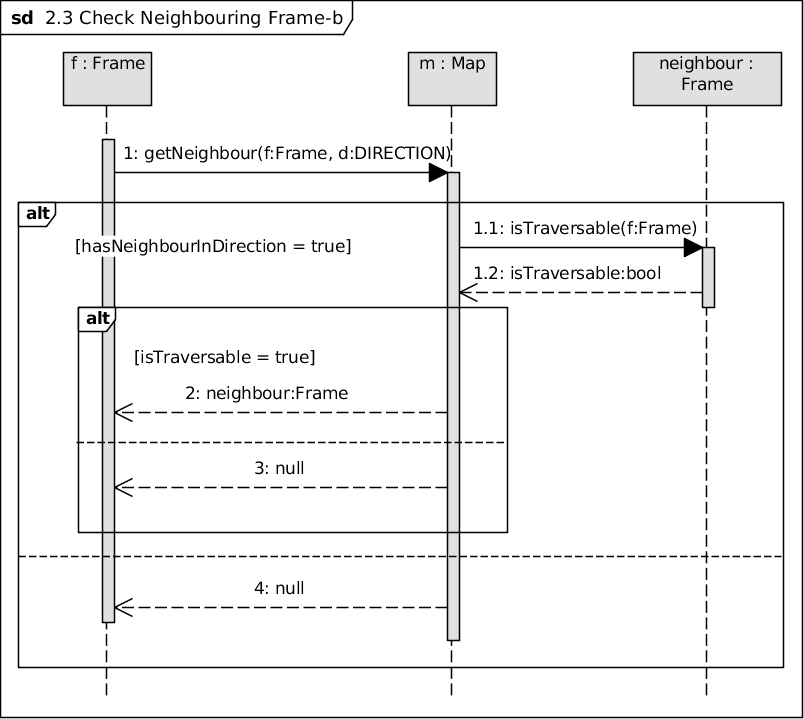
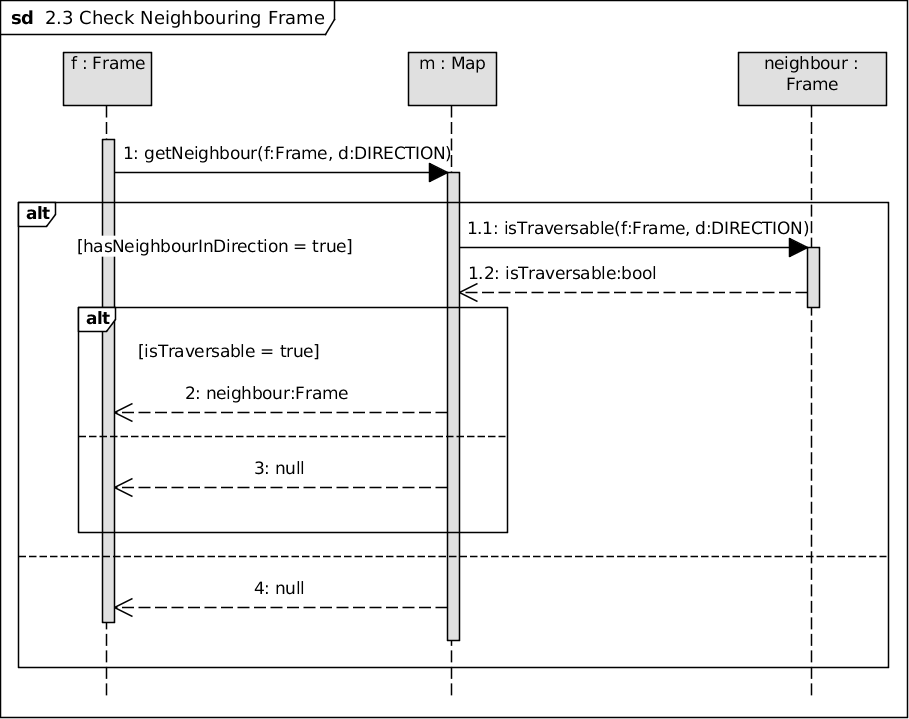
04: fixed diagrams and updated .tex file, diary added

diff --git a/docs/04/04.tex b/docs/04/04.tex
@@ -19,7 +19,7 @@
 			\item[FrameItem] A keretben elhelyezkedő elemek által megvalósított iterfész, melyen keresztül a keret menedzselni tudja a benne lévő elemeket.
 			\item[Game] A játékot reprezentáló objektum, amely kezeli az aktuális pályát.
 			\item[Key] Kulcs elem, melyet megérintve a Stickman meg tud szerezni. Erről egy esemény küldésén keresztül értesíti a külvilágot.
-			\item[Map] Számon tartja a pályán elhelyezett kulcsokat számát, valamint a már összegyűjtött kulcsok számát. Felelős a keretek mozgatásáért.
+			\item[Map] Számon tartja a pályán elhelyezett kulcsokat számát, valamint a már összegyűjtött kulcsok számát. Felelős a keretek mozgatásáért, amit kommunikácó nélkül meg tud valósítani.
 			\item[MapFactory] Felelős a pályák létrehozásáért, bennük a keretek és az elemek elhelyezéséért.
 			\item[Platform] Olyan elem, mellyel nem tud a Stickman egy helyen tartózkodni, azaz korlátozza a Stickman mozgásterét.
 			\item[PubSub] Üzenetközvetítő osztály, mely feliratkozásokat tart számon, és ha valakitől eseményt kap, arról értesíti az arra feliratkozottakat.
@@ -43,10 +43,7 @@
 						\item[\texttt{protected Area area}] A tartalmazó kereten belül elfoglalt pozíció 
 						\item[\texttt{protected Frame frame}] A tartalmazó keret 
 					\end{description}
-				\item[Metódusok]$\ $
-					\begin{description}
-						\item[] (nincs)
-					\end{description}
+				\item[Metódusok] (nincs)
 			\end{description}
 
 		\subsubsection{Area}
@@ -90,14 +87,8 @@
 
 				\item[Ősosztályok] (nincs).
 				\item[Interfészek] (nincs)
-				\item[Attribútumok]$\ $
-					\begin{description}
-						\item[] (nincs)
-					\end{description}
-				\item[Metódusok]$\ $
-					\begin{description}
-						\item[] (nincs)
-					\end{description}
+				\item[Attribútumok] (nincs)
+				\item[Metódusok] (nincs)
 			\end{description}
 
 		\subsubsection{Door}
@@ -106,14 +97,8 @@
 
 				\item[Ősosztályok] AbstractFrameItem $\rightarrow{}$ Door.
 				\item[Interfészek] (nincs)
-				\item[Attribútumok]$\ $
-					\begin{description}
-						\item[] (nincs)
-					\end{description}
-				\item[Metódusok]$\ $
-					\begin{description}
-						\item[] (nincs)
-					\end{description}
+				\item[Attribútumok] (nincs)
+				\item[Metódusok] (nincs)
 			\end{description}
 
 		\subsubsection{Frame}
@@ -122,15 +107,12 @@
 
 				\item[Ősosztályok] (nincs).
 				\item[Interfészek] (nincs)
-				\item[Attribútumok]$\ $
-					\begin{description}
-						\item[] (nincs)
-					\end{description}
+				\item[Attribútumok] (nincs)
 				\item[Metódusok]$\ $
 					\begin{description}
 						\item[\texttt{public void addItem(FrameItem item)}] \hfill \\ Hozzáadja a megadott elemet a kerethez. 
 						\item[\texttt{protected boolean checkCollision(Area area)}] \hfill \\ Ellenőrzi, hogy a megadott területen  található-e szilárd objektum. 
-						\item[\texttt{protected boolean isTraversable(Frame frame)}] \hfill \\ Megállapítja, hogy a megadott kerettel  átjárható-e. 
+						\item[\texttt{protected boolean isTraversable(Frame frame, DIRECTION d)}] \hfill \\ Megállapítja, hogy a megkapott Keret és saját  maga között fennáll-e az átjárhatóság a  megadott irányban. 
 						\item[\texttt{public void removeItem(FrameItem item)}] \hfill \\ Eltávolítja a megadott elemet a keretből 
 						\item[\texttt{public boolean requestArea(FrameItem item, Area area)}] \hfill \\ A metódust hívó elem kérést intéz a kerethez,  hogy el szeretné foglalni a megadott területet.  A keret felelőssége a terület ellenőrzése, és szabad  terület esetén az elem pozíciójának frissítése. 
 					\end{description}
@@ -175,7 +157,7 @@
 				\item[Interfészek] (nincs)
 				\item[Attribútumok]$\ $
 					\begin{description}
-						\item[\texttt{private boolean collected}] Flag, ami jelzi, hogy megszerezték-e a kulcsot. 
+						\item[\texttt{private boolean collected}] A kulcs összegyűjtöttségének állapotát tárolja. 
 					\end{description}
 				\item[Metódusok]$\ $
 					\begin{description}
@@ -184,19 +166,20 @@
 			\end{description}
 
 		\subsubsection{Map}
-				 A pályákat reprezentálja. Tartalmazza a kereteket és azok elhelyezkedését,  kontrolállja az átrendezésüket. 			\begin{description}
+				 A pályákat reprezentálja. Tartalmazza a kereteket és azok elhelyezkedését,  kontrolállja az átrendezésüket, melyet kommunikáció nélkül meg tud tenni, mivel a keretek nem tudnak relatív elhelyezkedésükről. 			\begin{description}
 
 
 				\item[Ősosztályok] (nincs).
 				\item[Interfészek] (nincs)
 				\item[Attribútumok]$\ $
 					\begin{description}
-						\item[] (nincs)
+						\item[\texttt{protected Collection<Frame> frames}] A pályához tartozó kereteket tárolja. A Map osztály  meg tudja állapítani a keretek közötti szomszédossági  viszonyokat a gyűjtemény alapján. 
 					\end{description}
 				\item[Metódusok]$\ $
 					\begin{description}
 						\item[\texttt{public void addItem(FrameItem item)}] \hfill \\ Hozzáadja a megadott elemet az elem által specifikált pozícióhoz.  Amennyiben a pálya inicializálása során az adott helyen még nincs keret,  létrehoz egyet.   A hozzáadott elem pozícióját megváltoztatja úgy, hogy az relatív  legyen a tartalmazó kerethez. 
 						\item[\texttt{public Frame getNeighbour(Frame caller, DIRECTION direction)}] \hfill \\ Visszaadja a megadott keret direction irányba található  szomszédját. null-t ad vissza, ha a megadott irányban  nincs szomszéd. 
+						\item[\texttt{public void moveFrame(DIRECTION d)}] \hfill \\ Kicseréli az üres helyet a megadott iránnyal ellentétes  szomszédjával. 
 					\end{description}
 			\end{description}
 
@@ -206,10 +189,7 @@
 
 				\item[Ősosztályok] (nincs).
 				\item[Interfészek] (nincs)
-				\item[Attribútumok]$\ $
-					\begin{description}
-						\item[] (nincs)
-					\end{description}
+				\item[Attribútumok] (nincs)
 				\item[Metódusok]$\ $
 					\begin{description}
 						\item[\texttt{public Map getMap(int mapId, PubSub ps)}] \hfill \\ Létrehozza a megadott azonosítójú pályát  és feltölti elemekkel. 
@@ -222,14 +202,8 @@
 
 				\item[Ősosztályok] AbstractFrameItem $\rightarrow{}$ Platform.
 				\item[Interfészek] (nincs)
-				\item[Attribútumok]$\ $
-					\begin{description}
-						\item[] (nincs)
-					\end{description}
-				\item[Metódusok]$\ $
-					\begin{description}
-						\item[] (nincs)
-					\end{description}
+				\item[Attribútumok] (nincs)
+				\item[Metódusok] (nincs)
 			\end{description}
 
 		\subsubsection{PubSub}
@@ -240,7 +214,7 @@
 				\item[Interfészek] (nincs)
 				\item[Attribútumok]$\ $
 					\begin{description}
-						\item[] (nincs)
+						\item[\texttt{private Collection<Subscriber> subscribers}] Az eseményekre feliratkozott eseménykezelőket tárolja. 
 					\end{description}
 				\item[Metódusok]$\ $
 					\begin{description}
@@ -255,10 +229,7 @@
 
 				\item[Ősosztályok] AbstractFrameItem $\rightarrow{}$ Stickman.
 				\item[Interfészek] (nincs)
-				\item[Attribútumok]$\ $
-					\begin{description}
-						\item[] (nincs)
-					\end{description}
+				\item[Attribútumok] (nincs)
 				\item[Metódusok]$\ $
 					\begin{description}
 						\item[\texttt{private Area getNewAreaByDirection(DIRECTION direction)}] \hfill \\ A figura igényelt elmozdulása után elfoglalandó  terület kiszámítása. 
@@ -274,7 +245,7 @@
 				\item[Ősosztályok] (nincs).
 				\item[Metódusok]$\ $
 					\begin{description}
-						\item[\texttt{public void eventEmitted(String eventName, Object eventParameter)}] \hfill \\ A PubSub objektum által meghívott metódus,  a feliratkozott esemény bekövetkeztekor. 
+						\item[\texttt{public void eventEmitted(String eName, Object eParameter)}] \hfill \\ A PubSub objektum által meghívott metódus,  a feliratkozott esemény bekövetkeztekor. 
 					\end{description}
 			\end{description}
 
@@ -288,10 +259,7 @@
 					\begin{description}
 						\item[\texttt{ PubSub pubsub}] Az eseménykezelő csatorna,  melyen jelzi az idő múlását. 
 					\end{description}
-				\item[Metódusok]$\ $
-					\begin{description}
-						\item[] (nincs)
-					\end{description}
+				\item[Metódusok] (nincs)
 			\end{description}
 
 %GENERATOR:CLASS_DESCRIPTIONS
@@ -313,6 +281,7 @@
 \begin{center}\includegraphics[scale=1]{resources/23CheckNeighbouringFrame.png}\end{center}
 \begin{center}\includegraphics[scale=1]{resources/24Stickmanfalls.png}\end{center}
 \begin{center}\includegraphics[scale=1]{resources/25Pickingupakey.png}\end{center}
+\begin{center}\includegraphics[scale=1]{resources/30MoveFrame.png}\end{center}
 \begin{center}\includegraphics[scale=0.8, angle=-90]{resources/26Collisionnotification.png}\end{center}
 
 	\subsection{State-chartok}
@@ -324,5 +293,20 @@
 	% The diary generator uses the following comments to identify the beginning and the ending of the generated diary
 	% The following content is auto generated, please do NOT modify, edit the related shared document instead.
 	%GENERATOR:DIARY
-    %GENERATOR:DIARY
+    \begin{center} 
+        \begin{tabular}{| l | p{1.9cm} | p{2.6cm} | p{6.1cm} |}
+            \hline
+                Kezdet & Időtartam & Résztvevők & Leírás \\
+            \hline \hline 
+2012. 02. 29. 08:00 & 1.5 óra & Fodor, Thaler & Konzultáció\\ \hline
+2012. 02. 29. 16:30 & 1.5 óra & Thaler & Kért módosítások implementálása\\ \hline
+2012. 02. 30. 21:00 & 3 óra & Berki & Javítások átnézése\\ \hline
+2012. 02. 31. 19:00 & 2 óra & Berki & További javítások\\ \hline
+2012. 03. 04. 20:00 & 1.5 óra & Thaler & Sequence diagram javítás\\ \hline
+2012. 03. 05. 21:30 & 0.5 óra & Berki & Nyomtatás\\ \hline
+
+            \hline
+        \end{tabular}
+    \end{center}
+%GENERATOR:DIARY
 \end{document}
